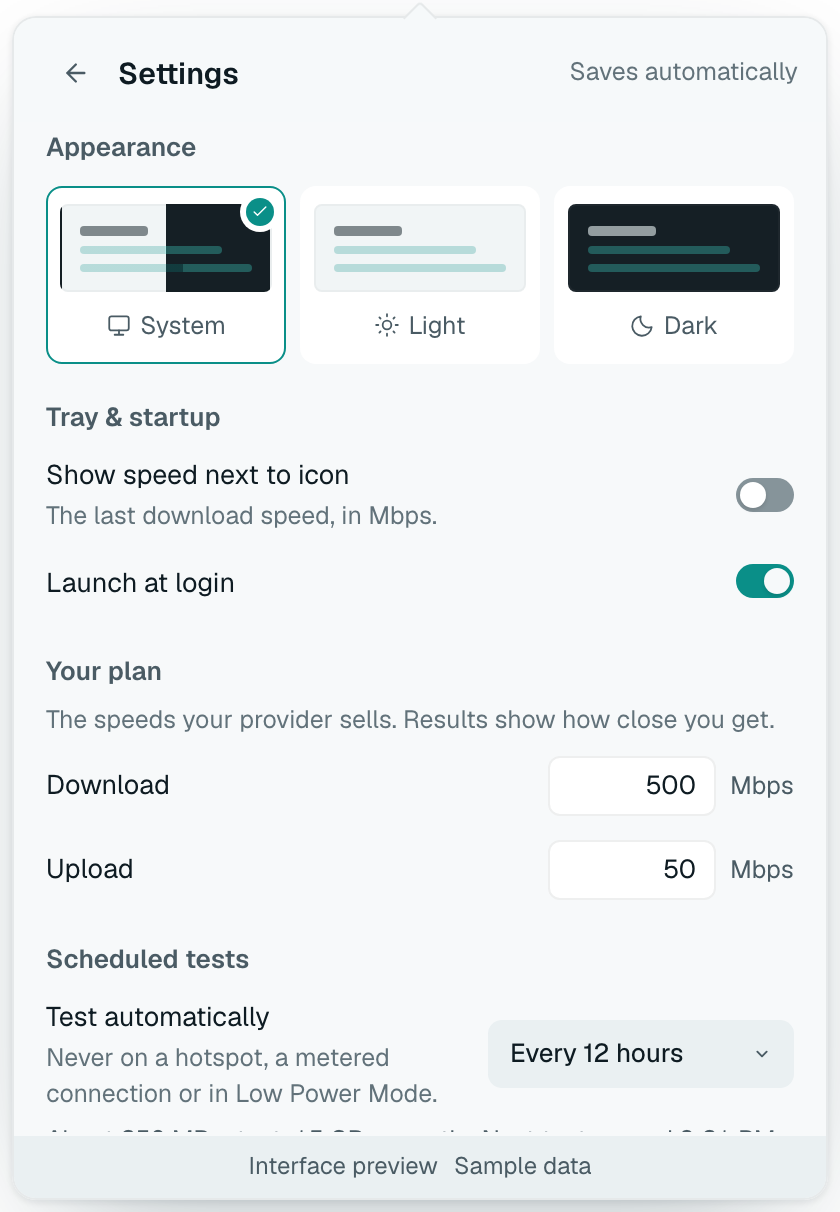
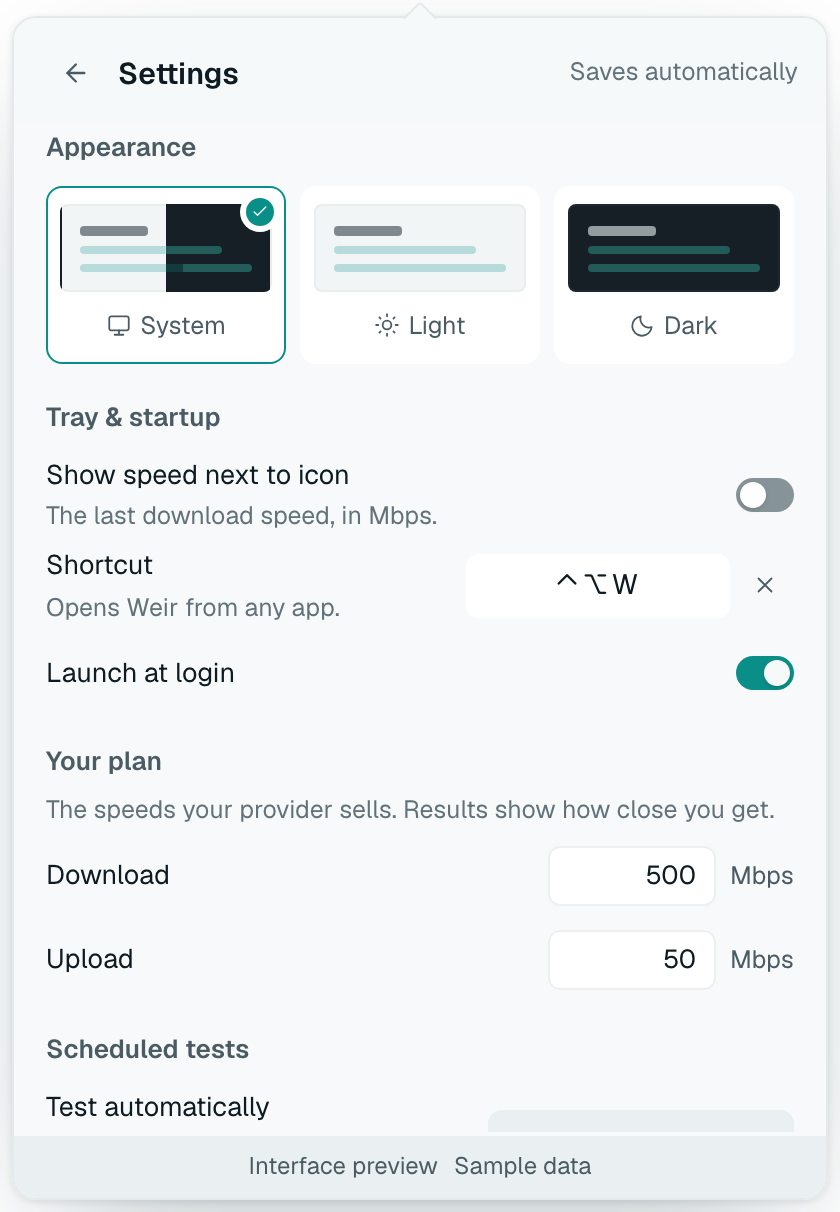
chore(release): prepare v0.5.0
Bumps the version to 0.5.0, adds the changelog for the global shortcut
and the Homebrew cask, points the README downloads at v0.5.0, refreshes
the Settings screenshot with the Shortcut row, and records both
branches in the plan.

diff --git a/docs/plan.md b/docs/plan.md
@@ -153,12 +153,24 @@ Built as three branches, each its own pull request, merged into `main`: #10 plan
   Findings: the popover's fit height could wobble a pixel (rounded offsetHeight sums); now measured with fractional rects, 96/96 repeated fit runs pass.
 - [x] **P.4 Release v0.4.0.** Published 2026-10-26 04:19 UTC; evidence in `docs/verification.md`.
 
+## Shortcut and Homebrew (v0.5.0) ⛳
+
+Two branches, two pull requests: #14 shortcut, #15 Homebrew.
+
+- [x] **S.1 Global shortcut.** Settings → Tray & startup → Shortcut records a combination that opens or closes the popover from any app; ported from Wick.
+  Verify: Rust parse and recovery tests; TS record/format tests (Mac symbols, Windows names); e2e records, rejects Shift-only, removes; axe clean.
+  Findings: axe flagged the recorder's name not containing its visible key; it now labels itself with both.
+- [x] **S.2 Homebrew cask** in `Abulkosim/homebrew-tap`; update script tested in CI; tap-bump workflow ported from Wick, skipped until its deploy key is set.
+  Verify: `brew style` clean; script tests; first cask pushed by hand after the v0.5.0 publish and installed with `brew`.
+  Findings: creating the tap deploy key was left to the owner (new write access); 👤 steps in `docs/releasing.md`.
+- [ ] **S.3 Release v0.5.0.**
+
 ## Phase 5 — Later
 
 - [ ] Per-network history keyed by a salted hash of the gateway MAC, user-named.
 - [ ] Scheduled full tests (opt-in, never metered).
-- [ ] Global shortcut; `weir --json`.
-- [ ] Homebrew tap and winget jobs, gated off (Margin's `packaging/`).
+- [ ] `weir --json`.
+- [ ] winget, gated off (Margin's `packaging/winget`).
 
 ## Not doing
 

diff --git a/README.md b/README.md
@@ -23,12 +23,12 @@ Interface preview with sample data.
 
 ## Install
 
-Download **v0.4.0** from [GitHub Releases](https://github.com/Abulkosim/weir/releases/latest), or on a Mac: `brew install --cask abulkosim/tap/weir`. Step-by-step guide with uninstall: [docs/install.md](docs/install.md).
+Download **v0.5.0** from [GitHub Releases](https://github.com/Abulkosim/weir/releases/latest), or on a Mac: `brew install --cask abulkosim/tap/weir`. Step-by-step guide with uninstall: [docs/install.md](docs/install.md).
 
 | Platform | Download |
 | --- | --- |
-| macOS 12+ · Apple Silicon and Intel | [Universal DMG](https://github.com/Abulkosim/weir/releases/download/v0.4.0/Weir_0.4.0_universal.dmg) |
-| Windows x64 | [Setup EXE](https://github.com/Abulkosim/weir/releases/download/v0.4.0/Weir_0.4.0_x64-setup.exe) · [MSI](https://github.com/Abulkosim/weir/releases/download/v0.4.0/Weir_0.4.0_x64_en-US.msi) |
+| macOS 12+ · Apple Silicon and Intel | [Universal DMG](https://github.com/Abulkosim/weir/releases/download/v0.5.0/Weir_0.5.0_universal.dmg) |
+| Windows x64 | [Setup EXE](https://github.com/Abulkosim/weir/releases/download/v0.5.0/Weir_0.5.0_x64-setup.exe) · [MSI](https://github.com/Abulkosim/weir/releases/download/v0.5.0/Weir_0.5.0_x64_en-US.msi) |
 
 Builds are not signed with an Apple Developer ID or a Windows publisher certificate, so the first launch shows a warning. Updates are signed and verified in the app.
 

diff --git a/CHANGELOG.md b/CHANGELOG.md
@@ -2,6 +2,7 @@
 
 | Version | Date (UTC) | Changes |
 | --- | --- | --- |
+| [v0.5.0](changelogs/v0.5.0.md) | 2026-10-28 | Global shortcut, Homebrew cask. |
 | [v0.4.0](changelogs/v0.4.0.md) | 2026-10-26 | Plan comparison, PDF report for the provider, scheduled tests. |
 | [v0.3.0](changelogs/v0.3.0.md) | 2026-10-25 | Tray menu actions, shortcuts, copy summary, lighter tray redraws. |
 | [v0.2.0](changelogs/v0.2.0.md) | 2026-10-24 | Check connection, opt-in outage watching, slow hours. |

diff --git a/changelogs/v0.5.0.md b/changelogs/v0.5.0.md
@@ -1,0 +1,6 @@
+# v0.5.0
+
+2026-10-28 · [Download](https://github.com/Abulkosim/weir/releases/tag/v0.5.0)
+
+- Open Weir from any app with your own keyboard shortcut. Record it in Settings → Tray & startup → Shortcut; press it again to close the popover.
+- Install on a Mac with Homebrew: `brew install --cask abulkosim/tap/weir`. Weir still updates itself.
